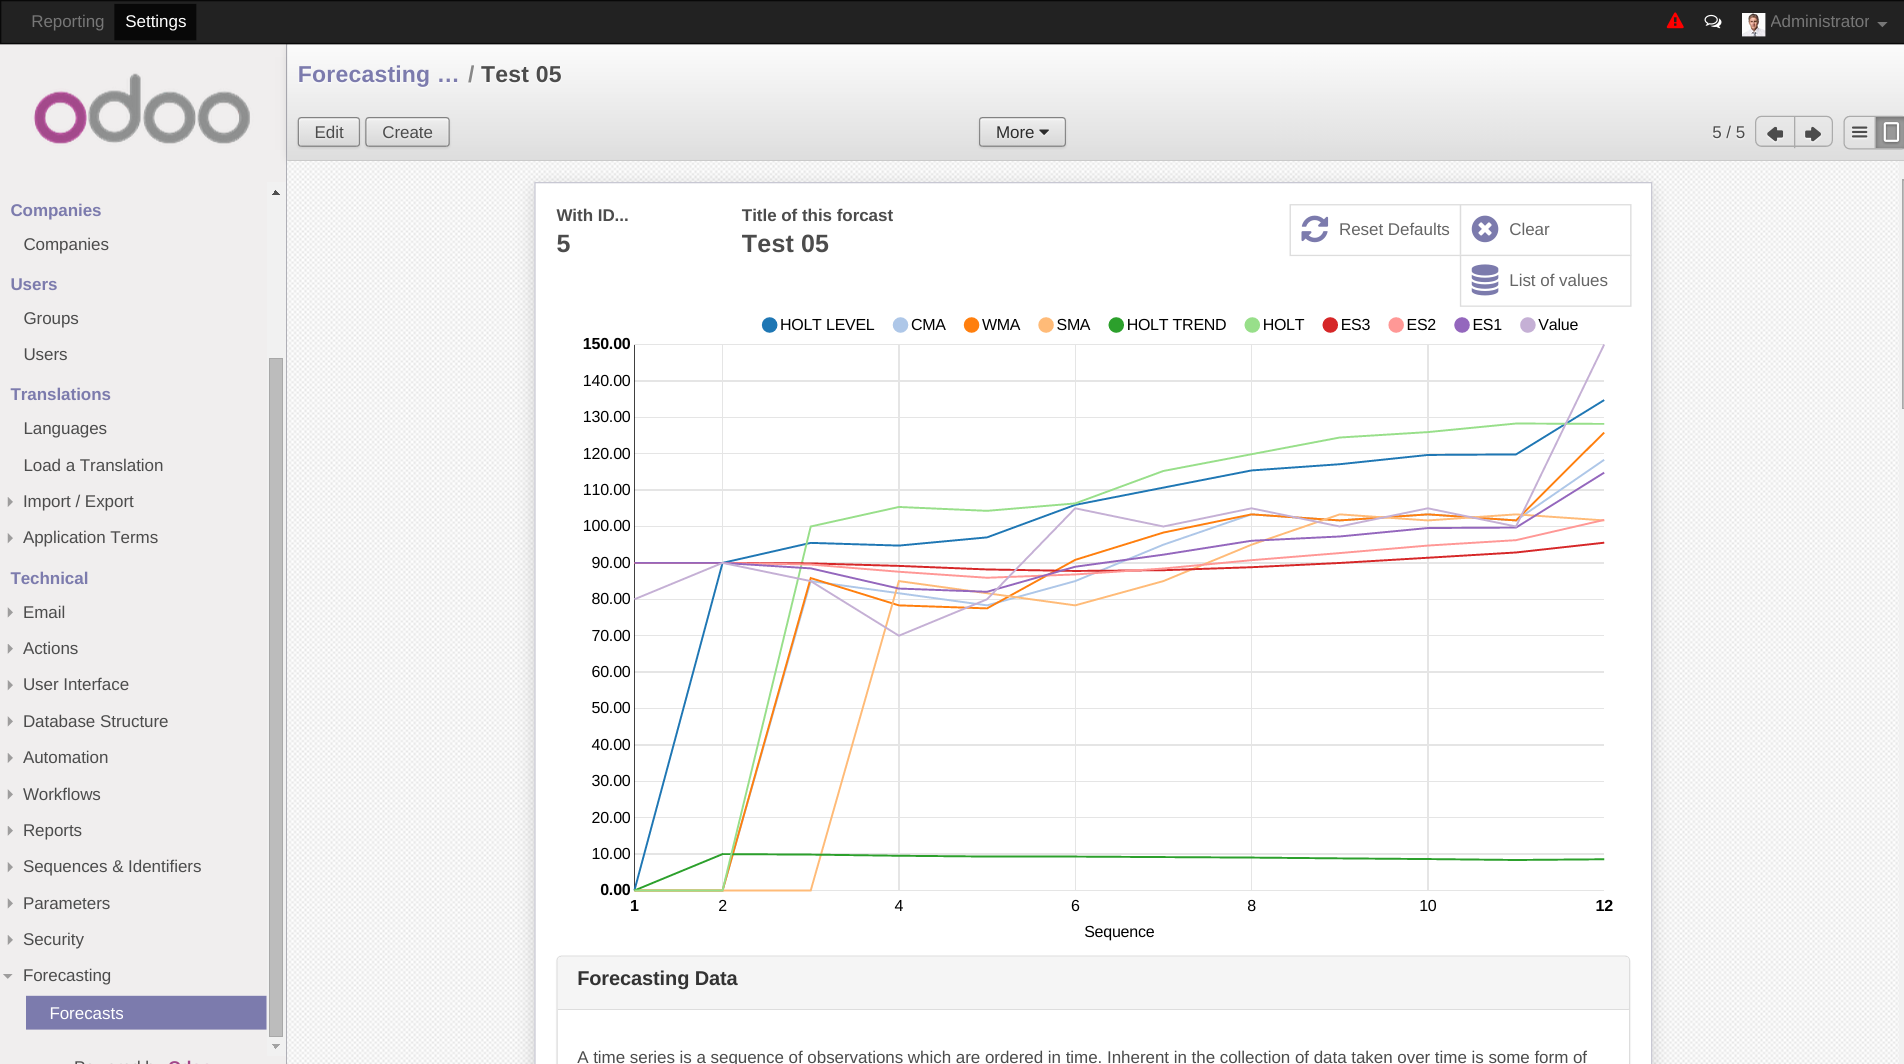
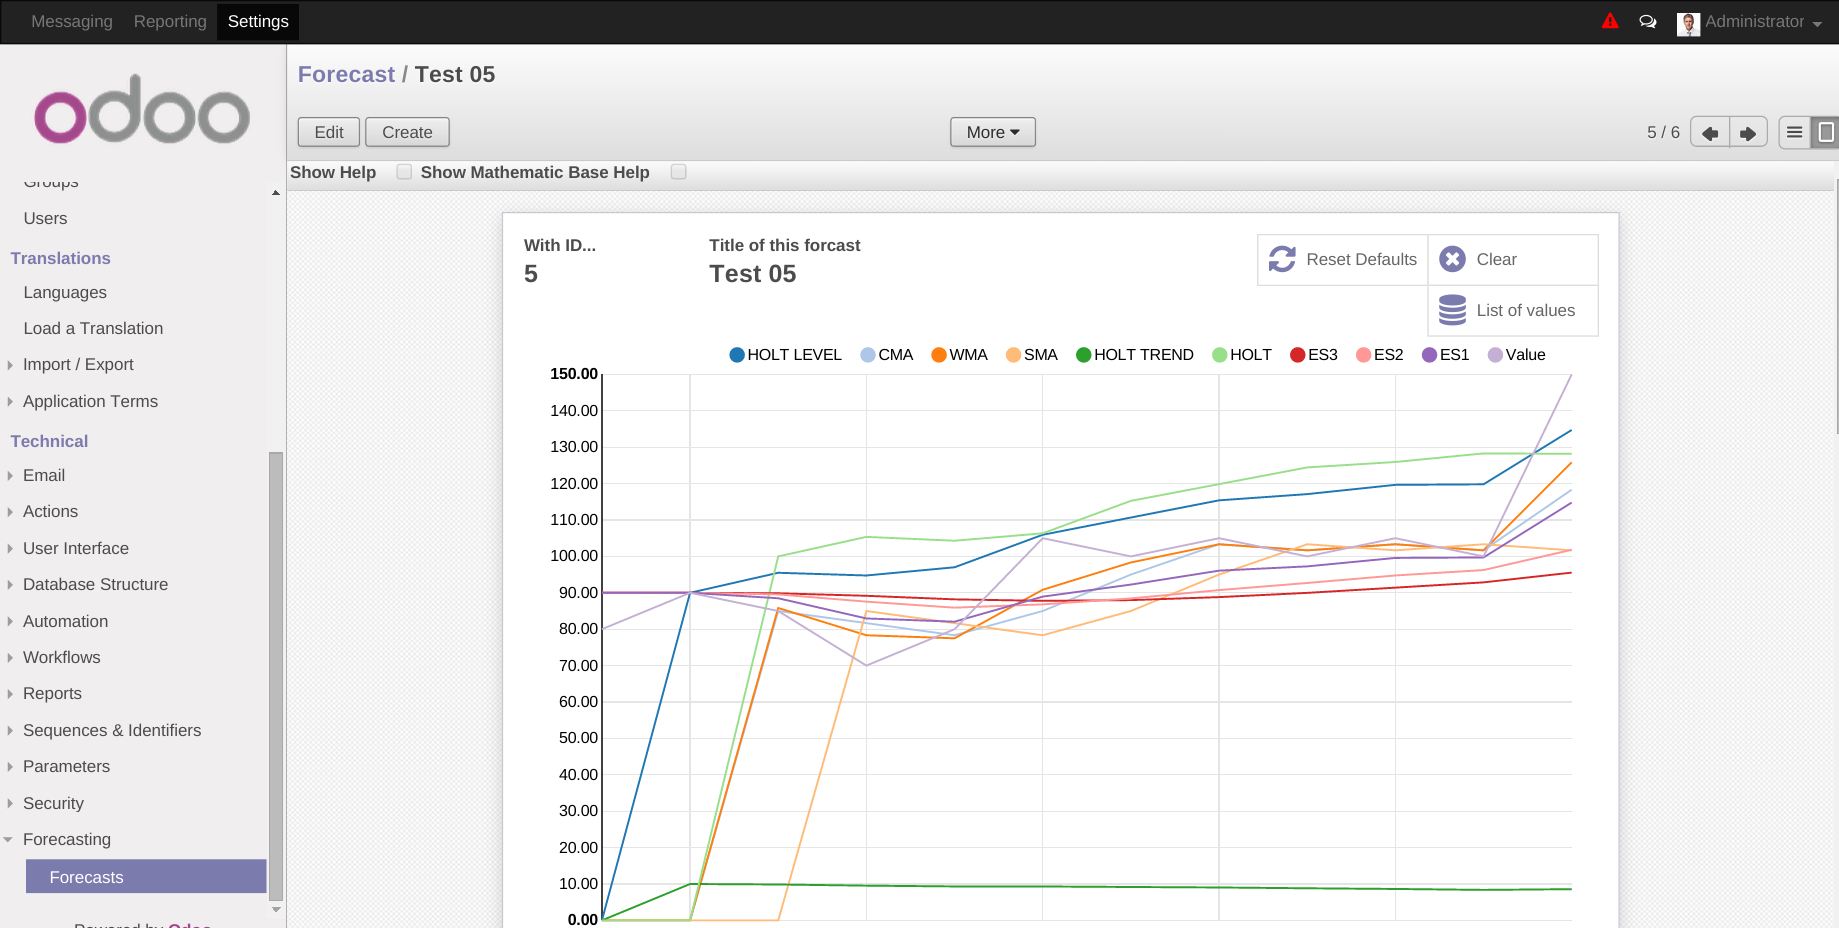
[ADD] Update the forecasting_smoothing_techniques module description adding the show helps functionality.
- Update the forecasting_smoothing_techniques module help to show information
  about the show help and show Mathematical base help in the forecast model.
  The screenshots were updated to a new version.
- Update the README/index todo list.
- Update step 1 in forecast module to make it consist with the current way
  that works.

diff --git a/forecasting_smoothing_techniques/static/description/index.html b/forecasting_smoothing_techniques/static/description/index.html
@@ -201,23 +201,44 @@ submit.
      </li>
      <li>
       <p class="oe_mt32">
-       In a more complete view of all the forecasting form view you can review the
-total forecasting summary and the forecasting methods parameters to
-configure to run the forecasting. If you have any doubt there is an
-explanation about every forecasting methods so will be more easy to use.
+       There is a functionality to help the user to use the forecast model.
+You can hide/show two kinds of help:
       </p>
+      <ul>
+       <li>
+        <p class="oe_mt32">
+         <code class="docutils literal">
+          Help
+         </code>
+         : Show step by step the things to configure to generate the
+forecast.
+        </p>
+        <img alt="Forecast Step by Steph Help" class="oe_picture oe_screenshot" src="forecast_help.png"/>
+       </li>
+       <li>
+        <p class="oe_mt32">
+         <code class="docutils literal">
+          Mathematical Base Help
+         </code>
+         : Showing information about how the forecast
+methods works, how to set the parameters and how to make the forecast
+results compare. If you have any doubt there is an explanation about every
+forecasting methods so will be more easy to use.
+        </p>
+        <img alt="forecast complete form view" class="oe_picture oe_screenshot" src="forecast_complete_form_view.png"/>
+       </li>
+      </ul>
      </li>
-    </ul>
-    <img alt="Forecast Complete Form View" class="oe_picture oe_screenshot" src="forecast_complete_form_view.png"/>
-    <ul class="simple">
      <li>
-      When editing the forecast values (Click over the
-      <code class="docutils literal">
-       List of Values
-      </code>
-      button)
+      <p class="oe_mt32">
+       When editing the forecast values (Click over the
+       <code class="docutils literal">
+        List of Values
+       </code>
+       button)
 you can observe all the values in the table with all the detail forecasting
 results per data point with the mathematical absolute error (MAE).
+      </p>
      </li>
     </ul>
     <img alt="Forecast Data List View" class="oe_picture oe_screenshot" src="forecast_data_tree_view.png"/>
@@ -265,23 +286,11 @@ groups are correctly set.
     </h1>
     <ul class="simple">
      <li>
-      Actual there is not way to throw an error when the forecast list of values
-is not enough list of values to generate groups of n periods defined for the
-sma, cma and wma forecasting methods.
-     </li>
-     <li>
       The module name can be change to just forecast or forecasting.
      </li>
      <li>
-      The translation template of this module exists but the translations must be
-added.
-     </li>
-     <li>
-      Review the translations spanish terms.
-     </li>
-     <li>
-      Hide the smoothing methods helps in the forecast form using the same concept
-of the ifrs and user_story modules.
+      Add constraint that make that the list of values are consecutive values
+start from 1. If not then the forecast calculus will fail.
      </li>
     </ul>
    </div>

diff --git a/forecasting_smoothing_techniques/README.rst b/forecasting_smoothing_techniques/README.rst
@@ -73,13 +73,22 @@ To use this module, you need to:
   .. image:: forecast_buttons.png
      :alt: Forecast Buttons
 
-* In a more complete view of all the forecasting form view you can review the
-  total forecasting summary and the forecasting methods parameters to
-  configure to run the forecasting. If you have any doubt there is an
-  explanation about every forecasting methods so will be more easy to use.
+* There is a functionality to help the user to use the forecast model.
+  You can hide/show two kinds of help:
 
-.. image:: forecast_complete_form_view.png
-   :alt: Forecast Complete Form View
+  - ``Help``: Show step by step the things to configure to generate the
+    forecast.
+
+    .. image:: forecast_help.png
+       :alt: Forecast Step by Steph Help
+
+  - ``Mathematical Base Help``: Showing information about how the forecast
+    methods works, how to set the parameters and how to make the forecast
+    results compare. If you have any doubt there is an explanation about every
+    forecasting methods so will be more easy to use.
+
+    .. image:: forecast_complete_form_view.png
+       :alt: forecast complete form view
 
 * When editing the forecast values (Click over the ``List of Values`` button)
   you can observe all the values in the table with all the detail forecasting
@@ -114,15 +123,9 @@ Known issues / Roadmap
 TODO
 ====
 
-- Actual there is not way to throw an error when the forecast list of values
-  is not enough list of values to generate groups of n periods defined for the
-  sma, cma and wma forecasting methods.
 - The module name can be change to just forecast or forecasting.
-- The translation template of this module exists but the translations must be
-  added.
-- Review the translations spanish terms.
-- Hide the smoothing methods helps in the forecast form using the same concept
-  of the ifrs and user_story modules.
+- Add constraint that make that the list of values are consecutive values
+  start from 1. If not then the forecast calculus will fail.
 
 Bug Tracker
 ===========
